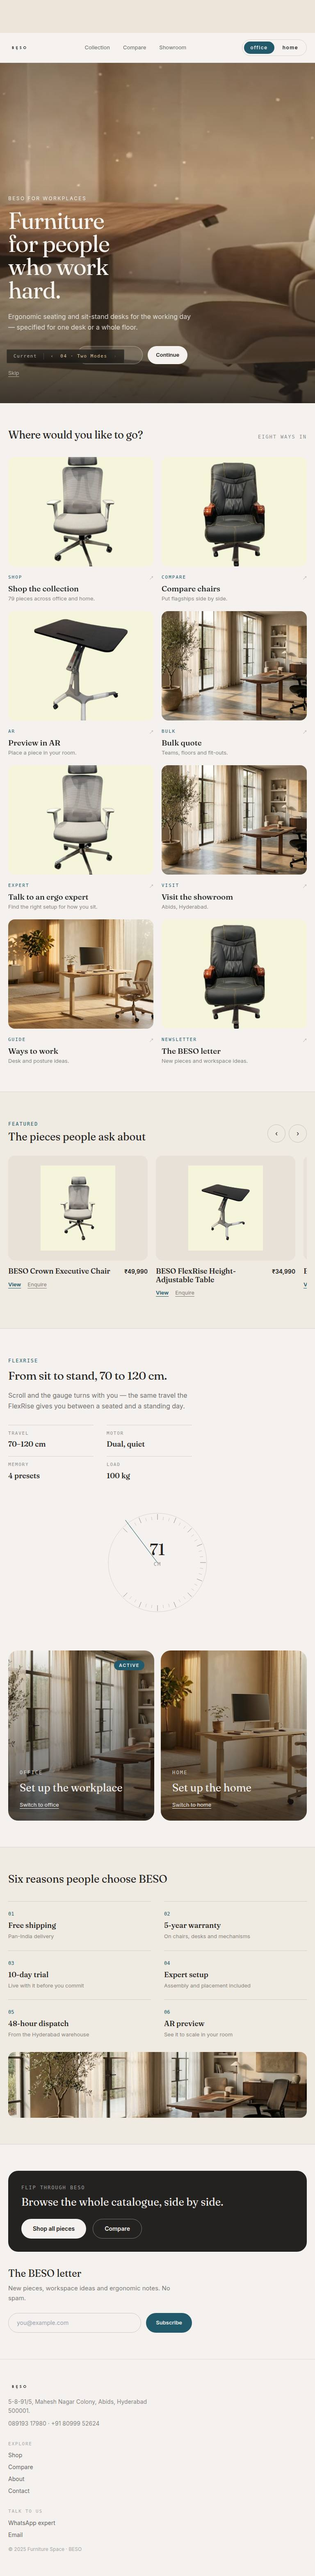
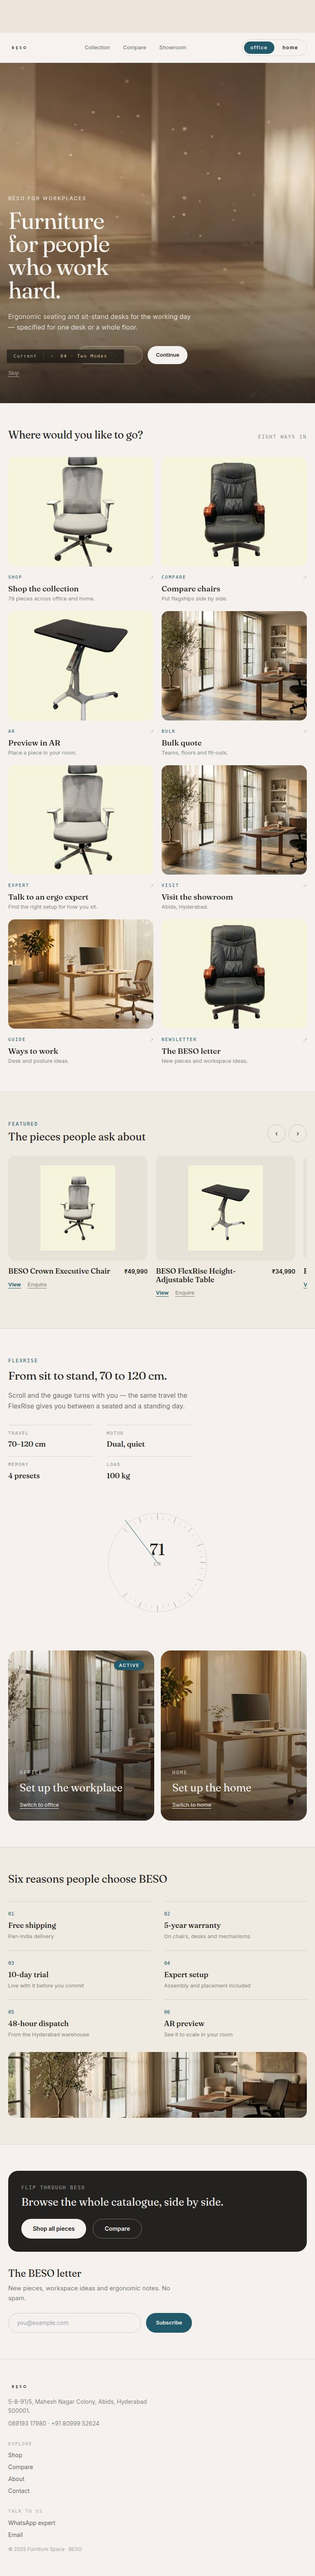
fix(home): home hero uses original hero-bg.webm; continue Two Modes
- Home hero video -> original 1080p hero-bg.webm (ivory-minimal theme + default)
- Two Modes: mode-specific featured carousel (Office=ergonomic flagships,
  Home=home range), clip-path wipe + content swap animation on mode change

Changed region(s): [[0.0, 0.0, 1.0, 0.1556]]

diff --git a/src/components/designs/d04-twomodes/index.tsx b/src/components/designs/d04-twomodes/index.tsx
@@ -14,7 +14,7 @@ const BODY = 'Inter, ui-sans-serif, system-ui, -apple-system, sans-serif';
 const MONO = 'ui-monospace, SFMono-Regular, Menlo, monospace';
 
 type Mode = 'office' | 'home';
-type Product = {slug: string; name: string; price: number; image: string};
+type Product = {slug: string; name: string; price: number; image: string; category?: string};
 const list = products as unknown as Product[];
 const find = (s: string) => list.find((p) => p.slug === s);
 const crown = find('beso-crown-executive-chair');
@@ -56,6 +56,19 @@ const tiles = [
 ];
 
 const featured = [crown, flexrise, prestige].filter(Boolean) as Product[];
+
+// Mode-specific carousel: Office leads with the ergonomic flagships, Home leads
+// with the home range. Real products only.
+const carouselFor = (m: Mode) => {
+  const lead = m === 'office' ? featured : list.filter((p) => p.category === 'home').slice(0, 3);
+  const rest = list.filter((p) => p.category === m);
+  const seen = new Set<string>();
+  const out: Product[] = [];
+  for (const p of [...lead, ...rest]) {
+    if (p && !seen.has(p.slug)) { seen.add(p.slug); out.push(p); }
+  }
+  return out.slice(0, 9);
+};
 
 const reasons = [
   ['Free shipping', 'Pan-India delivery'],
@@ -160,8 +173,12 @@ export default function DesignTwoModes() {
             key={m}
             aria-hidden={mode !== m}
             autoPlay muted loop playsInline poster={MODES[m].poster}
-            className="absolute inset-0 h-full w-full object-cover transition-opacity duration-[1000ms] ease-in-out"
-            style={{opacity: mode === m ? 1 : 0}}
+            className="absolute inset-0 h-full w-full object-cover"
+            style={{
+              opacity: mode === m ? 1 : 0,
+              clipPath: mode === m ? 'inset(0 0% 0 0%)' : 'inset(0 0% 0 100%)',
+              transition: 'opacity 700ms ease-in-out, clip-path 950ms cubic-bezier(0.7,0,0.2,1)',
+            }}
           >
             <source src={`${MODES[m].video}.webm`} type="video/webm" />
             <source src={`${MODES[m].video}.mp4`} type="video/mp4" />
@@ -169,7 +186,7 @@ export default function DesignTwoModes() {
         ))}
         <div className="absolute inset-0" style={{background: 'linear-gradient(180deg, rgba(30,28,26,0.35) 0%, rgba(30,28,26,0.05) 34%, rgba(30,28,26,0.55) 82%, rgba(30,28,26,0.85) 100%)'}} />
 
-        <div className="relative z-10 mx-auto w-full max-w-[1280px] px-5 pb-16 pt-24 lg:px-10 lg:pb-24">
+        <div key={mode} className="tm-swap relative z-10 mx-auto w-full max-w-[1280px] px-5 pb-16 pt-24 lg:px-10 lg:pb-24">
           <span className="text-[12px] uppercase tracking-[0.2em]" style={{color: '#F4F1EE'}}>{name ? `Hi ${name} — ${M.eyebrow}` : M.eyebrow}</span>
           <h1 className="mt-4 text-[clamp(42px,7.5vw,96px)] font-light leading-[0.98] tracking-[-0.02em] text-[#F7F4F0]" style={{fontFamily: DISPLAY, fontWeight: 360}}>
             {M.headline.map((line) => (<span key={line} className="block">{line}</span>))}
@@ -238,8 +255,8 @@ export default function DesignTwoModes() {
               <button onClick={() => nudge(1)} aria-label="Next" className="flex h-11 w-11 items-center justify-center rounded-full border border-[#232220]/20 transition-colors hover:bg-[#232220] hover:text-[#F4F1EE]">›</button>
             </div>
           </div>
-          <div ref={scroller} className="mt-8 flex snap-x snap-mandatory gap-5 overflow-x-auto pb-3 [scrollbar-width:none]">
-            {featured.concat(list.slice(0, 6)).filter((p, i, a) => a.findIndex((x) => x.slug === p.slug) === i).slice(0, 9).map((p) => (
+          <div ref={scroller} key={mode} className="mt-8 flex snap-x snap-mandatory gap-5 overflow-x-auto pb-3 [scrollbar-width:none]">
+            {carouselFor(mode).map((p) => (
               <article key={p.slug} className="w-[76vw] shrink-0 snap-start sm:w-[340px]">
                 <div className="overflow-hidden rounded-2xl bg-[#E7E1D8]">
                   <img src={src(p)} alt={p.name} loading="lazy" className="aspect-[4/3] w-full object-contain p-6" />

diff --git a/src/app/globals.css b/src/app/globals.css
@@ -940,3 +940,14 @@ html[data-design-mode='1'] .footer-dark,
 html[data-design-mode='1'] .scroll-progress {
   display: none !important;
 }
+/* ─── Concept "Two Modes" — content swap on mode change ─────────────────── */
+.tm-swap {
+  animation: tm-swap 700ms cubic-bezier(0.22, 1, 0.36, 1) both;
+}
+@keyframes tm-swap {
+  from { opacity: 0; transform: translateY(12px); }
+  to { opacity: 1; transform: none; }
+}
+@media (prefers-reduced-motion: reduce) {
+  .tm-swap { animation: none; }
+}

diff --git a/src/components/HeroVideo.tsx b/src/components/HeroVideo.tsx
@@ -3,7 +3,7 @@
 import { useEffect, useState, useRef } from 'react';
 import { THEMES } from '@/lib/themes';
 
-const DEFAULT_HERO_VIDEO = '/assets/videos/hero-bg-ivory.webm';
+const DEFAULT_HERO_VIDEO = '/assets/videos/hero-bg.webm';
 const DEFAULT_BASE = DEFAULT_HERO_VIDEO.replace(/\.(webm|mp4)$/i, '');
 
 const HERO_VIDEO_BY_ID = THEMES.reduce<Record<string, string>>((acc, theme) => {

diff --git a/src/lib/themes.ts b/src/lib/themes.ts
@@ -46,7 +46,7 @@ export const THEMES: Theme[] = [
     sans: 'Manrope',
     display: 'DM Serif Display',
     swatch: {app: '#f7f4ef', accent: '#101418', ink: '#1b1c1e'},
-    heroVideo: '/assets/videos/hero-bg-ivory.webm',
+    heroVideo: '/assets/videos/hero-bg.webm',
   },
   {
     id: 'nordic-white',
